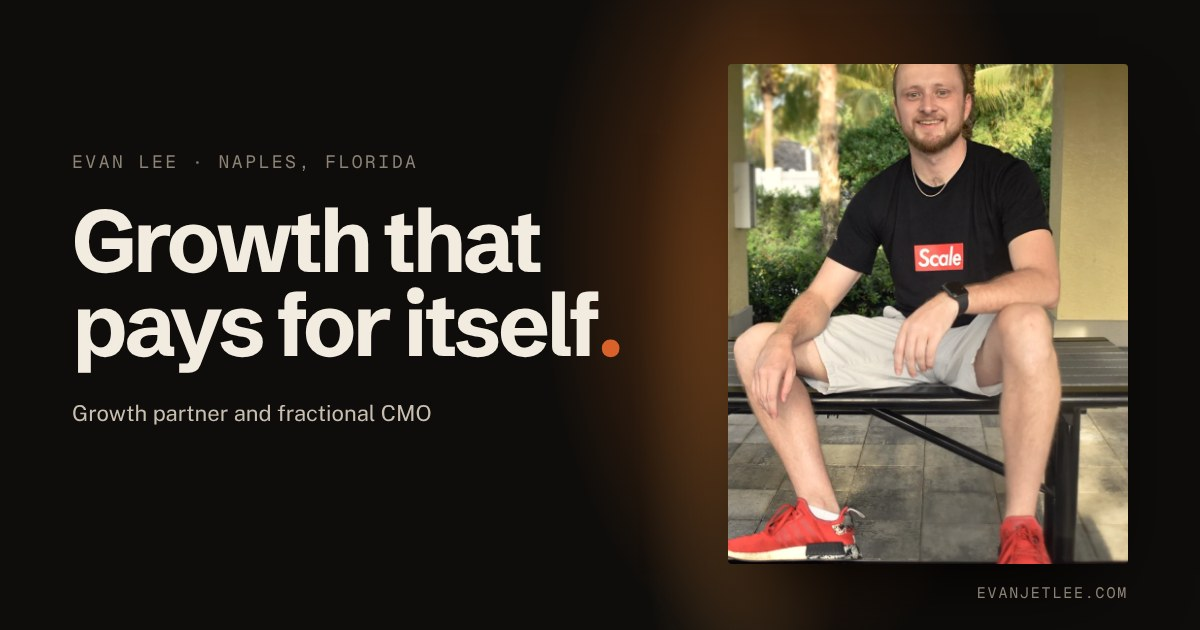
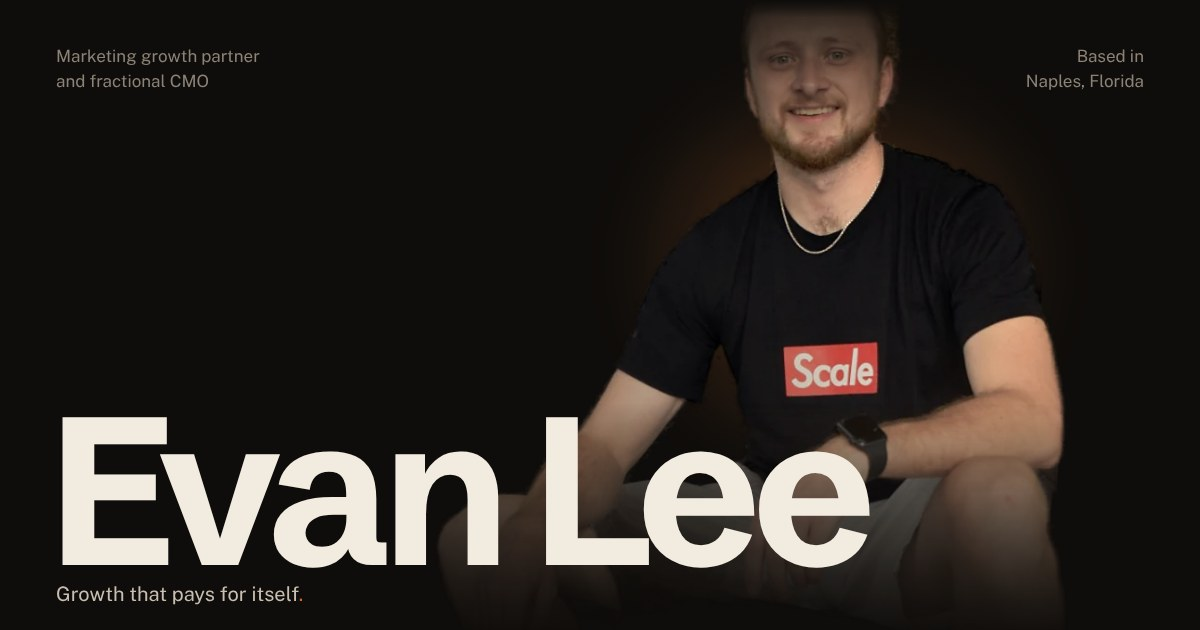
Rosa-style nameplate and 'Nice to meet you' scene
- Opening screen is now the name over Evan: a cut-out, moodily lit
  portrait from the bench photo on the dark page with the orange aurora
  behind him, a giant 'Evan Lee', small corner labels (role, Naples,
  founder of JetSpeedSocial, year), 'Book a call' with an orange arrow,
  and the email bottom right. On scroll the photo keeps zooming while
  the name lifts away. The H1 still reads 'Evan Lee, marketing growth
  partner and fractional CMO in Naples, Florida' for search.
- 'Growth that pays for itself.' moves to an intro screen with the
  lead, buttons, and proof stats, which now count up on arrival.
- New pinned 'Nice to meet you' scene before About: three notes,
  Evan brightening and zooming out of the dark, then the words slide
  over him. The header highlights About during it.
- Share image redone in the same style.

Claude-Session: https://claude.ai/code/session_01SAnofQPM4pLS9rjWbCmDxt

diff --git a/src/main.js b/src/main.js
@@ -74,14 +74,16 @@ document.querySelectorAll('[data-spy]').forEach((a) => {
   if (!sec || a.closest('.menu')) return
   ScrollTrigger.create({ trigger: sec, start: 'top 45%', end: 'bottom 45%', onToggle: (st) => st.isActive && setActive(a.dataset.spy) })
 })
-ScrollTrigger.create({ trigger: '.hero', start: 'top top', end: 'bottom 45%', onToggle: (st) => st.isActive && setActive(null) })
+ScrollTrigger.create({ trigger: '.nameplate', start: 'top top', endTrigger: '.intro', end: 'bottom 45%', onToggle: (st) => st.isActive && setActive(null) })
 ScrollTrigger.create({ trigger: '.cta', start: 'top 45%', end: 'bottom top', onToggle: (st) => st.isActive && setActive(null) })
+// the 'Nice to meet you' scene introduces Evan, so it counts as About
+ScrollTrigger.create({ trigger: '.meet', start: 'top 45%', end: 'bottom 45%', onToggle: (st) => st.isActive && setActive('about') })
 
 // phone: quick-contact bar shows after the hero, hides at the closing call to action
 if (mbar) {
   const show = () => document.body.classList.add('mbar-on')
   const hide = () => document.body.classList.remove('mbar-on')
-  ScrollTrigger.create({ trigger: '.hero', start: 'bottom 60%', endTrigger: '.cta', end: 'top 85%', onEnter: show, onEnterBack: show, onLeave: hide, onLeaveBack: hide })
+  ScrollTrigger.create({ trigger: '.nameplate', start: 'bottom 60%', endTrigger: '.cta', end: 'top 85%', onEnter: show, onEnterBack: show, onLeave: hide, onLeaveBack: hide })
 }
 
 // ---------- swipe carousels on phones (proof stats, case studies) ----------
@@ -115,18 +117,35 @@ function countUp(el, tl, at = 0) {
 
 // ---------- motion ----------
 if (!reduced) {
-  // hero entrance
-  const intro = gsap.timeline({ delay: 0.15 })
-  intro.from('.hero h1 .line > span', { yPercent: 105, duration: 1.2, stagger: 0.12, ease: 'power4.out' })
-    .from('.hero .rv', { y: 26, autoAlpha: 0, duration: 0.9, stagger: 0.08, ease: 'power3.out' }, '-=0.8')
-    .from('.portrait-frame', { clipPath: 'inset(100% 0 0 0)', duration: 1.4, ease: 'power4.inOut' }, 0.1)
-    .from('.portrait img', { scale: 1.2, duration: 1.8, ease: 'power3.out' }, 0.1)
-    .from('.float-card', { y: 30, autoAlpha: 0, duration: 1, ease: 'power3.out' }, 0.9)
-    .from('.fc-bar', { scaleX: 0, duration: 1.1, stagger: 0.15, ease: 'power3.out' }, 1.1)
+  // nameplate entrance: Evan fades up out of the dark, then his name rises letter-row by row
+  gsap.timeline({ delay: 0.1 })
+    .from('.np-photo img', { autoAlpha: 0, scale: 1.12, duration: 2, ease: 'power3.out' }, 0)
+    .from('.np-name .nm > span', { yPercent: 110, duration: 1.3, stagger: 0.1, ease: 'power4.out' }, 0.35)
+    .from('.np-meta li, .np-cta, .np-touch, .np-down', { y: 16, autoAlpha: 0, duration: 0.9, stagger: 0.06, ease: 'power3.out' }, 0.8)
     .from('.nav > *', { y: -16, autoAlpha: 0, duration: 0.8, stagger: 0.06, ease: 'power3.out' }, 0.2)
-  document.querySelectorAll('.proof strong').forEach((el) => countUp(el, intro, 0.8))
-  const heroWords = prepare(document.querySelectorAll('.hero h1 .line > span'))
-  intro.call(() => decode(heroWords, { duration: 1.4 }), null, 0.25)
+
+  // leaving the nameplate: the photo keeps zooming in while the name lifts away
+  gsap.timeline({ scrollTrigger: { trigger: '.nameplate', start: 'top top', end: 'bottom top', scrub: true } })
+    .to('.np-photo img', { scale: 1.28, yPercent: 8, ease: 'none' }, 0)
+    .to('.np-row', { yPercent: -60, autoAlpha: 0.2, ease: 'none' }, 0)
+    .to('.np-meta, .np-touch, .np-down', { autoAlpha: 0, ease: 'none' }, 0)
+
+  // intro numbers count up when they arrive
+  const proofTl = gsap.timeline({ scrollTrigger: { trigger: '.proof', start: 'top 88%' } })
+  document.querySelectorAll('.proof strong').forEach((el, i) => countUp(el, proofTl, i * 0.12))
+
+  // "Nice to meet you": the scene holds while Evan steps out of the dark and the words slide over him
+  const meet = document.querySelector('.meet')
+  if (meet) {
+    gsap.timeline({
+      scrollTrigger: { trigger: meet, start: 'top top', end: () => '+=' + Math.round(window.innerHeight * 1.3), pin: true, scrub: 0.6, refreshPriority: 5 },
+    })
+      .fromTo('.meet-photo img', { scale: 0.82, filter: 'brightness(0.35)' }, { scale: 1.18, filter: 'brightness(1)', ease: 'none', duration: 1 }, 0)
+      .from('.meet-notes li', { y: 20, autoAlpha: 0, stagger: 0.08, duration: 0.25 }, 0.05)
+      .from('.meet-title .ml > span', { yPercent: 110, stagger: 0.12, duration: 0.35, ease: 'power3.out' }, 0.5)
+      .to('.meet-notes li', { autoAlpha: 0, duration: 0.2 }, 0.75)
+  }
+
   const ctaWords = prepare(document.querySelectorAll('.cta h2 .line > span'))
   ScrollTrigger.create({ trigger: '.cta', start: 'top 70%', once: true, onEnter: () => decode(ctaWords, { duration: 1.3 }) })
 
@@ -212,13 +231,6 @@ if (!reduced) {
     gsap.utils.toArray('.from-left, .from-right').forEach((el) =>
       gsap.from(el, { x: el.classList.contains('from-left') ? -80 : 80, autoAlpha: 0, duration: 1.2, ease: 'power3.out', scrollTrigger: { trigger: el, start: 'top 82%' } })
     )
-    // hero gently splits apart as you leave it
-    gsap.timeline({ scrollTrigger: { trigger: '.hero', start: 'top top', end: 'bottom 20%', scrub: true } })
-      .to('.hero h1 .line:first-child', { xPercent: -6, ease: 'none' }, 0)
-      .to('.hero h1 .line:last-child', { xPercent: 6, ease: 'none' }, 0)
-      .to('.hero-copy', { autoAlpha: 0.15, ease: 'none' }, 0)
-      .to('.portrait-frame img', { yPercent: 8, scale: 1.06, ease: 'none' }, 0)
-      .to('.float-card', { y: -60, ease: 'none' }, 0)
     // charts float a little slower than their story
     gsap.utils.toArray('.case-viz').forEach((v) =>
       gsap.fromTo(v, { y: 50 }, { y: -50, ease: 'none', scrollTrigger: { trigger: v.parentElement, start: 'top bottom', end: 'bottom top', scrub: true } })
@@ -231,13 +243,6 @@ if (!reduced) {
     gsap.utils.toArray('.from-left, .from-right').forEach((el) =>
       gsap.from(el, { x: el.classList.contains('from-left') ? -48 : 48, autoAlpha: 0, duration: 1.1, ease: 'power3.out', scrollTrigger: { trigger: el, start: 'top 86%' } })
     )
-
-    // hero: the photo settles and drifts, the headline splits apart as you scroll away
-    gsap.timeline({ scrollTrigger: { trigger: '.hero', start: 'top top', end: 'bottom top', scrub: true } })
-      .fromTo('.portrait-frame img', { scale: 1.08 }, { scale: 1.2, yPercent: 10, ease: 'none' }, 0)
-      .to('.hero h1 .line:first-child', { xPercent: -10, ease: 'none' }, 0)
-      .to('.hero h1 .line:last-child', { xPercent: 10, ease: 'none' }, 0)
-      .to('.float-card', { y: -50, autoAlpha: 0, ease: 'none' }, 0)
 
     // case studies stack: each card sticks, and the one underneath sinks back as the next slides over it
     const cards = gsap.utils.toArray('.cases > .case')
@@ -315,4 +320,6 @@ if (window.matchMedia('(hover: hover)').matches) {
   document.addEventListener('pointerout', (e) => { if (!e.relatedTarget?.closest?.('[data-tip]')) tip.classList.remove('show') })
 }
 
+// pinned scenes measure first (higher refreshPriority), so every trigger below them lands in the right place
+ScrollTrigger.sort()
 window.addEventListener('load', () => ScrollTrigger.refresh())

diff --git a/src/style.css b/src/style.css
@@ -140,6 +140,49 @@ h2 { font-size: clamp(36px, 4.4vw, 66px); line-height: 1.02; letter-spacing: -0.
 .proof strong { font-family: var(--serif); font-weight: 600; font-size: clamp(40px, 4vw, 60px); line-height: 1; letter-spacing: -0.02em; }
 .proof span { color: var(--mute); font-size: 15px; max-width: 30ch; }
 
+/* ---------- nameplate: the name over Evan, the opening screen ---------- */
+.nameplate { position: relative; height: 100vh; height: 100svh; min-height: 620px; overflow: hidden; padding: 0 var(--gutter); }
+.nameplate > * { max-width: none; }
+.nameplate::before { content: ''; position: absolute; z-index: 1; inset: 0 0 auto 0; height: 170px; pointer-events: none; background: linear-gradient(180deg, rgba(15, 13, 11, 0.85), rgba(15, 13, 11, 0)); }
+.np-photo { position: absolute; z-index: 0; bottom: 0; left: 54%; transform: translateX(-50%); height: 100%; aspect-ratio: 880 / 700; max-width: none; pointer-events: none; }
+.np-photo::before { content: ''; position: absolute; inset: 8% 10% 0; background: radial-gradient(50% 55% at 50% 38%, rgba(255, 140, 60, 0.22), transparent 70%); filter: blur(20px); }
+.np-photo img { position: relative; width: 100%; height: 100%; object-fit: contain; object-position: 50% 100%; transform-origin: 50% 30%; }
+.np-meta { position: absolute; z-index: 2; top: 104px; left: var(--gutter); right: var(--gutter); list-style: none; display: grid; grid-template-columns: 1fr 1fr 1fr auto; gap: 24px; font-size: 13px; line-height: 1.45; color: var(--mute); }
+.np-meta a { color: var(--ink-2); border-bottom: 1px solid var(--line-2); }
+.np-meta a:hover { color: var(--accent-ink); }
+.np-row { position: absolute; z-index: 2; left: var(--gutter); right: var(--gutter); bottom: 7vh; display: flex; align-items: flex-start; gap: clamp(18px, 3vw, 48px); }
+.np-name { font-family: var(--serif); font-weight: 700; font-size: clamp(96px, 17vw, 300px); line-height: 0.8; letter-spacing: -0.055em; color: var(--ink); margin: 0; white-space: nowrap; }
+.np-name .nm { display: inline-block; overflow: hidden; padding-bottom: 0.06em; margin-bottom: -0.06em; vertical-align: top; }
+.np-name .nm > span { display: inline-block; }
+.np-cta { margin-top: 0.6vw; font-family: var(--serif); font-weight: 600; font-size: clamp(20px, 2.1vw, 34px); letter-spacing: -0.02em; color: var(--ink); white-space: nowrap; transition: color 0.2s; }
+.np-cta i { font-style: normal; color: var(--accent); display: inline-block; transition: transform 0.3s; }
+.np-cta:hover { color: var(--accent-ink); }
+.np-cta:hover i { transform: translate(3px, -3px); }
+.np-touch { position: absolute; z-index: 2; right: var(--gutter); bottom: 7vh; text-align: right; font-size: 13px; line-height: 1.5; color: var(--mute); }
+.np-touch a { color: var(--ink-2); }
+.np-touch a:hover { color: var(--accent-ink); }
+.np-down { position: absolute; z-index: 2; left: 50%; bottom: 3vh; font-size: 14px; color: var(--mute); animation: bob 2.2s ease-in-out infinite; }
+@keyframes bob { 50% { transform: translateY(5px); } }
+
+/* ---------- intro: the promise, right after the name ---------- */
+.intro { padding-block: clamp(90px, 16vh, 180px) 40px; }
+.intro .eyebrow { margin-bottom: 26px; }
+.intro-title { font-size: clamp(52px, 8.6vw, 148px); font-weight: 700; line-height: 0.92; letter-spacing: -0.045em; max-width: 12ch; margin-bottom: 44px; }
+.intro-row { display: flex; justify-content: space-between; align-items: flex-end; gap: 32px; flex-wrap: wrap; }
+.intro-row .lead { max-width: 44ch; }
+
+/* ---------- "Nice to meet you" ---------- */
+.meet { position: relative; height: 100vh; height: 100svh; min-height: 600px; overflow: hidden; display: grid; place-items: center; padding: 0 var(--gutter); }
+.meet > * { max-width: none; }
+.meet-photo { width: min(78vw, 980px); aspect-ratio: 880 / 700; -webkit-mask-image: radial-gradient(60% 62% at 50% 42%, #000 55%, transparent 100%); mask-image: radial-gradient(60% 62% at 50% 42%, #000 55%, transparent 100%); }
+.meet-photo img { width: 100%; height: 100%; object-fit: contain; transform-origin: 50% 35%; }
+.meet-notes { position: absolute; z-index: 2; top: 104px; left: var(--gutter); right: var(--gutter); list-style: none; display: grid; grid-template-columns: repeat(3, 1fr); gap: 24px; font-size: 13px; line-height: 1.45; color: var(--ink-2); }
+.meet-notes li:last-child { text-align: right; }
+.meet-title { position: absolute; z-index: 2; right: var(--gutter); bottom: 8vh; text-align: right; font-size: clamp(64px, 10.5vw, 180px); font-weight: 700; line-height: 0.9; letter-spacing: -0.05em; }
+.meet-title .ml { display: block; overflow: hidden; padding-bottom: 0.06em; }
+.meet-title .ml > span { display: inline-block; }
+.meet-title .dot { font-style: normal; color: var(--accent); }
+
 /* ---------- industries ---------- */
 .industries { padding-block: 72px 40px; overflow: hidden; }
 .industries .kicker { color: var(--mute); text-align: center; }
@@ -580,4 +623,24 @@ body.sub { background: radial-gradient(1200px 600px at 75% -10%, rgba(217, 98, 4
   .local-map iframe { height: 300px; }
   .local-services, .local-faq { margin-top: 56px; }
   .local-page .cp-head .btns .btn { flex: 1 1 100%; justify-content: center; }
+
+  /* nameplate on phones: Evan large, name in two lines over the fade */
+  .nameplate { min-height: 560px; }
+  .np-photo { left: 50%; bottom: 24svh; height: 76svh; }
+  .np-photo img { object-position: 50% 100%; }
+  .np-meta { top: 84px; grid-template-columns: 1fr 1fr; font-size: 12px; }
+  .np-meta li:nth-child(n+3) { display: none; }
+  .np-meta li:nth-child(2) { text-align: right; }
+  .np-row { flex-direction: column; gap: 14px; bottom: 6svh; }
+  .np-name { font-size: 31vw; white-space: normal; line-height: 0.82; }
+  .np-name .nm { display: block; }
+  .np-cta { margin: 0; font-size: 20px; }
+  .np-touch, .np-down { display: none; }
+  .intro { padding-block: 72px 24px; }
+  .intro-title { font-size: clamp(46px, 13vw, 64px); margin-bottom: 26px; }
+  .intro-row .btns { width: 100%; }
+  .intro-row .btns .btn { flex: 1 1 auto; justify-content: center; }
+  .meet-photo { width: 128vw; }
+  .meet-notes { top: 84px; font-size: 11.5px; gap: 12px; }
+  .meet-title { font-size: 17vw; bottom: 10svh; }
 }

diff --git a/src/render.js b/src/render.js
@@ -107,26 +107,31 @@ function caseBlock(c, i) {
 
 export function renderHome() {
   return `
-<section class="hero" id="top">
-  <div class="hero-grid">
-    <div class="hero-copy">
-      <p class="eyebrow rv"><span class="eb-long">${hero.eyebrow}</span><span class="eb-short">Growth partner · Naples, FL</span></p>
-      <h1>${hero.lines.map((l, i, all) => i === all.length - 1 ? `<span class="line"><span>${l.replace(/\.$/, '')}</span><span class="dot">.</span></span>` : `<span class="line"><span>${l}</span></span>`).join(' ')}</h1>
-      <p class="lead rv">${hero.sub}</p>
-      <div class="btns rv">
-        <a class="btn primary" href="${site.bookLink}" ${ext}>${hero.primary}<i aria-hidden="true">→</i></a>
-        <a class="btn ghost" href="#work">${hero.secondary}</a>
-      </div>
+<section class="nameplate" id="top">
+  <div class="np-photo"><img src="/img/evan-hero.webp" alt="Evan “Jet” Lee, marketing growth partner and founder of JetSpeedSocial, in Naples, Florida" width="880" height="700" fetchpriority="high" /></div>
+  <ul class="np-meta">
+    <li>Marketing growth partner<br />and fractional CMO</li>
+    <li>Based in<br />${site.city}</li>
+    <li>Founder of<br /><a href="${site.agency}" ${ext}>${site.company}</a></li>
+    <li>© ${year}</li>
+  </ul>
+  <div class="np-row">
+    <h1 class="np-name"><span class="nm"><span>Evan</span></span> <span class="nm"><span>Lee</span></span><span class="sr-only">, marketing growth partner and fractional CMO in Naples, Florida</span></h1>
+    <a class="np-cta" href="${site.bookLink}" ${ext}>Book a call <i aria-hidden="true">↗</i></a>
+  </div>
+  <p class="np-touch">Get in touch at<br /><a href="mailto:${site.email}">${site.email}</a></p>
+  <a class="np-down" href="#intro" aria-label="Scroll to the introduction">↓</a>
+</section>
+
+<section class="intro" id="intro">
+  <p class="eyebrow rv"><span class="eb-long">${hero.eyebrow}</span><span class="eb-short">Growth partner · Naples, FL</span></p>
+  <h2 class="intro-title sw">${words(hero.lines.join(' ').replace(/\.$/, ''))}<span class="dot">.</span></h2>
+  <div class="intro-row">
+    <p class="lead rv">${hero.sub}</p>
+    <div class="btns rv">
+      <a class="btn primary" href="${site.bookLink}" ${ext}>${hero.primary}<i aria-hidden="true">→</i></a>
+      <a class="btn ghost" href="#work">${hero.secondary}</a>
     </div>
-    <figure class="portrait rv">
-      <div class="portrait-frame"><img src="/img/evan-portrait.webp" alt="Evan “Jet” Lee, marketing growth partner, in Naples, Florida" width="824" height="1030" fetchpriority="high" /></div>
-      <figcaption><span>${site.name}</span><span>${site.city}</span></figcaption>
-      <div class="float-card" aria-hidden="true">
-        <span class="fc-k">Peddinghaus · Google Ads</span>
-        <div class="fc-row"><span>Before</span><b class="fc-bar base" style="--v:.39"></b><em>2 to 3x</em></div>
-        <div class="fc-row"><span>Now</span><b class="fc-bar hi" style="--v:1"></b><em>6.34x</em></div>
-      </div>
-    </figure>
   </div>
   <ul class="proof" data-carousel>
     ${hero.proof.map((p) => `<li class="rv"><strong>${p.value}</strong><span>${p.label}</span></li>`).join('')}
@@ -205,6 +210,16 @@ export function renderHome() {
       </svg>
     </figure>
   </div>
+</section>
+
+<section class="meet" aria-label="Meet Evan">
+  <ul class="meet-notes">
+    <li>Growing businesses<br />for 10+ years</li>
+    <li>Currently running<br />${site.company}</li>
+    <li>Open to growth<br />partnerships</li>
+  </ul>
+  <div class="meet-photo"><img src="/img/evan-hero.webp" alt="" loading="lazy" width="880" height="700" /></div>
+  <h2 class="meet-title"><span class="ml"><span>Nice to</span></span><span class="ml"><span>meet you<i class="dot">.</i></span></span></h2>
 </section>
 
 <section class="about" id="about">
